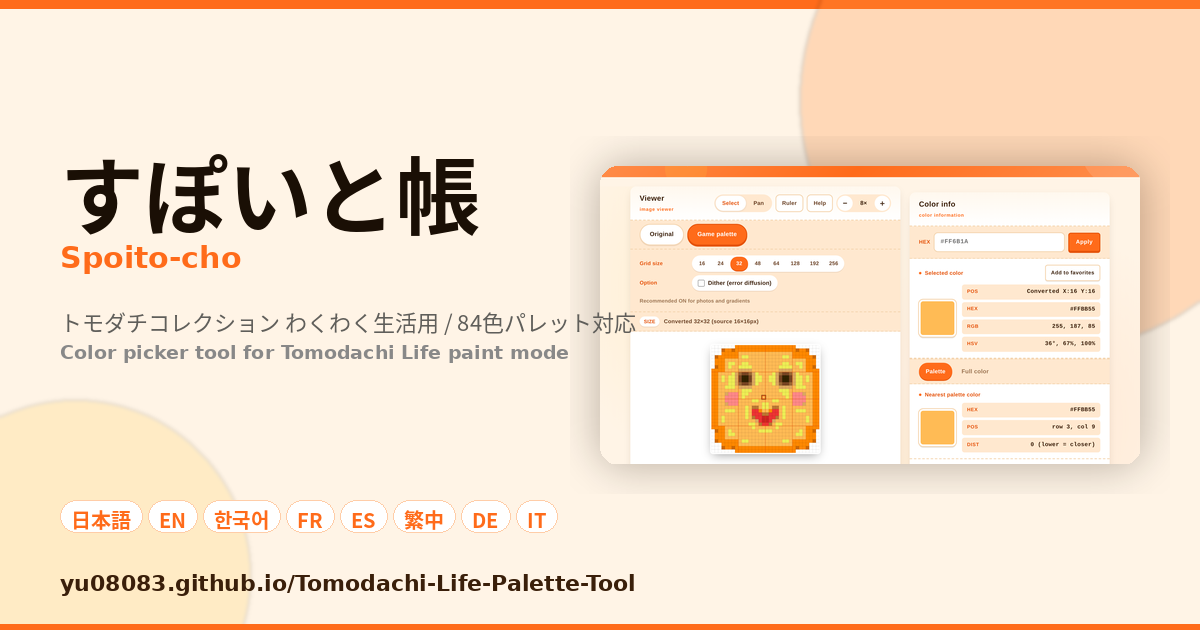
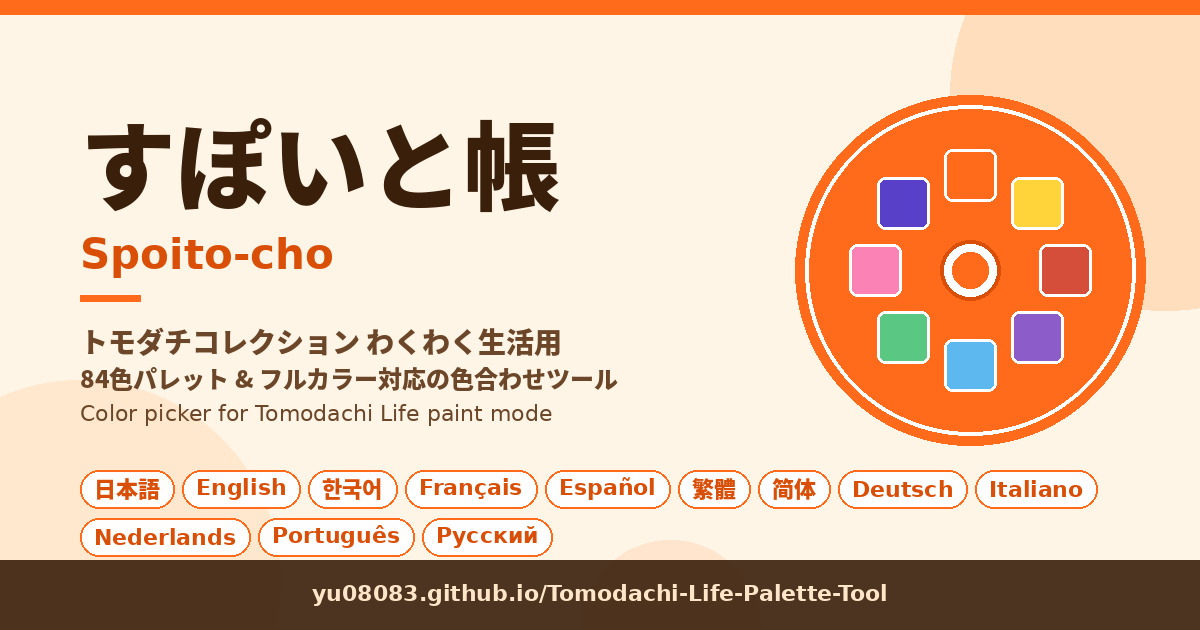
Add files via upload

diff --git a/js/features/share.js b/js/features/share.js
@@ -1,0 +1,94 @@
+
+const SHARE_BASE_URL = 'https://yu08083.github.io/Tomodachi-Life-Palette-Tool/';
+
+function _shareRandomUrl() {
+  const r = Math.random().toString(36).slice(2, 8);
+  return SHARE_BASE_URL + '?' + r;
+}
+
+function shareTweet() {
+  const url = _shareRandomUrl();
+  const text = t('share.tweetText');
+  const intent = 'https://twitter.com/intent/tweet'
+    + '?text=' + encodeURIComponent(text)
+    + '&url=' + encodeURIComponent(url);
+  window.open(intent, '_blank', 'noopener,noreferrer');
+  closeModal('modal-share');
+}
+
+async function shareCopyLink() {
+  const url = _shareRandomUrl();
+  let ok = false;
+  try {
+    if (navigator.clipboard && navigator.clipboard.writeText) {
+      await navigator.clipboard.writeText(url);
+      ok = true;
+    }
+  } catch (e) {}
+  if (!ok) {
+    try {
+      const ta = document.createElement('textarea');
+      ta.value = url;
+      ta.style.position = 'fixed';
+      ta.style.opacity = '0';
+      document.body.appendChild(ta);
+      ta.select();
+      ok = document.execCommand('copy');
+      document.body.removeChild(ta);
+    } catch (e) {}
+  }
+  if (ok) _shareToast(t('share.copied'));
+  closeModal('modal-share');
+}
+
+async function shareNative() {
+  const url = _shareRandomUrl();
+  const text = t('share.tweetText');
+  if (navigator.share) {
+    try {
+      await navigator.share({
+        title: 'Spoito-cho',
+        text,
+        url
+      });
+      closeModal('modal-share');
+    } catch (e) {}
+  }
+}
+
+function _shareToast(msg) {
+  let el = document.getElementById('share-toast');
+  if (!el) {
+    el = document.createElement('div');
+    el.id = 'share-toast';
+    el.className = 'share-toast';
+    document.body.appendChild(el);
+  }
+  el.textContent = msg;
+  el.classList.add('show');
+  clearTimeout(el._hideTimer);
+  el._hideTimer = setTimeout(() => {
+    el.classList.remove('show');
+  }, 2000);
+}
+
+function attachShareControls() {
+  const btn = document.getElementById('share-btn');
+  if (btn) btn.addEventListener('click', () => openModal('modal-share'));
+
+  const tweetBtn = document.getElementById('share-tweet-btn');
+  if (tweetBtn) tweetBtn.addEventListener('click', shareTweet);
+
+  const copyBtn = document.getElementById('share-copy-btn');
+  if (copyBtn) copyBtn.addEventListener('click', shareCopyLink);
+
+  const nativeBtn = document.getElementById('share-native-btn');
+  if (nativeBtn) {
+    if (navigator.share) {
+      nativeBtn.classList.remove('hidden');
+      nativeBtn.addEventListener('click', shareNative);
+    } else {
+      nativeBtn.classList.add('hidden');
+    }
+  }
+}

diff --git a/css/features/share.css b/css/features/share.css
@@ -1,0 +1,86 @@
+.modal-content-share {
+  max-width: 480px;
+}
+
+.share-actions {
+  display: flex;
+  flex-direction: column;
+  gap: var(--gap-sm);
+  margin-top: var(--gap-md);
+}
+
+.share-action-btn {
+  display: flex;
+  align-items: center;
+  gap: var(--gap-sm);
+  padding: 14px 18px;
+  font-family: var(--font-jp);
+  font-weight: 800;
+  font-size: 0.96rem;
+  background: var(--bg-soft);
+  color: var(--ink);
+  border: 2px solid transparent;
+  border-radius: var(--radius-md);
+  cursor: pointer;
+  transition: all 0.15s;
+  text-align: left;
+}
+.share-action-btn:hover {
+  transform: translateY(-1px);
+  border-color: var(--orange);
+  background: var(--card);
+  box-shadow: 0 4px 12px rgba(58, 31, 10, 0.12);
+}
+.share-action-btn:active { transform: translateY(0); }
+
+.share-icon {
+  flex-shrink: 0;
+  color: var(--ink-2);
+}
+.share-tweet { background: #000; color: #fff; }
+.share-tweet .share-icon { color: #fff; }
+.share-tweet:hover { background: #1a1a1a; border-color: #000; color: #fff; }
+.share-tweet:hover .share-icon { color: #fff; }
+
+.share-copy:hover .share-icon,
+.share-native:hover .share-icon { color: var(--orange-d); }
+
+.share-toast {
+  position: fixed;
+  bottom: 24px;
+  left: 50%;
+  transform: translateX(-50%) translateY(20px);
+  background: var(--ink);
+  color: #fff;
+  font-family: var(--font-jp);
+  font-weight: 800;
+  font-size: 0.92rem;
+  padding: 12px 24px;
+  border-radius: 999px;
+  box-shadow: 0 8px 24px rgba(0, 0, 0, 0.3);
+  opacity: 0;
+  pointer-events: none;
+  transition: all 0.25s;
+  z-index: 2000;
+}
+.share-toast.show {
+  opacity: 1;
+  transform: translateX(-50%) translateY(0);
+}
+
+.share-btn-tool {
+  background: var(--orange) !important;
+  color: #fff !important;
+  border-color: var(--orange) !important;
+}
+.share-btn-tool:hover {
+  background: var(--orange-d) !important;
+  color: #fff !important;
+}
+
+@media (max-width: 600px) {
+  .share-action-btn {
+    padding: 12px 14px;
+    font-size: 0.88rem;
+  }
+}

diff --git a/index.html b/index.html
@@ -108,6 +108,7 @@
   <link rel="stylesheet" href="./css/features/recipe.css">
   <link rel="stylesheet" href="./css/features/favorites.css">
   <link rel="stylesheet" href="./css/features/history.css">
+  <link rel="stylesheet" href="./css/features/share.css">
   <link rel="stylesheet" href="./css/features/notice.css">
   <link rel="stylesheet" href="./css/layout/mobile.css">
 </head>
@@ -219,6 +220,7 @@
               </div>
               <button id="ruler-btn" class="tool-btn" onclick="toggleRuler()" data-i18n="viewer.ruler">ルーラー</button>
               <button class="tool-btn" onclick="openModal('modal-guide')" data-i18n="viewer.help">使い方</button>
+              <button class="tool-btn share-btn-tool" id="share-btn" data-i18n="share.button" data-i18n-attr-aria-label="share.button" aria-label="共有">共有</button>
               <div class="zoom-controls">
                 <button id="zoom-out" class="zoom-btn" data-i18n-attr-aria-label="aria.zoomOut" aria-label="ズームアウト">−</button>
                 <span id="zoom-label">1×</span>
@@ -547,6 +549,35 @@
     </div>
   </div>
 
+  <div class="modal hidden" id="modal-share">
+    <div class="modal-content modal-content-share">
+      <button class="close-btn" onclick="closeModal('modal-share')" aria-label="閉じる">×</button>
+      <div class="modal-body">
+        <h2 data-i18n="share.menuTitle">すぽいと帳を共有</h2>
+        <div class="share-actions">
+          <button type="button" id="share-tweet-btn" class="share-action-btn share-tweet">
+            <svg class="share-icon" viewBox="0 0 24 24" width="22" height="22" aria-hidden="true">
+              <path fill="currentColor" d="M18.244 2.25h3.308l-7.227 8.26 8.502 11.24H16.17l-5.214-6.817L4.99 21.75H1.68l7.73-8.835L1.254 2.25H8.08l4.713 6.231zm-1.161 17.52h1.833L7.084 4.126H5.117z"/>
+            </svg>
+            <span data-i18n="share.tweet">Xに投稿</span>
+          </button>
+          <button type="button" id="share-copy-btn" class="share-action-btn share-copy">
+            <svg class="share-icon" viewBox="0 0 24 24" width="22" height="22" aria-hidden="true">
+              <path fill="none" stroke="currentColor" stroke-width="2" stroke-linecap="round" stroke-linejoin="round" d="M9 5H7a2 2 0 0 0-2 2v12a2 2 0 0 0 2 2h10a2 2 0 0 0 2-2v-2M9 5a2 2 0 0 1 2-2h2a2 2 0 0 1 2 2M9 5a2 2 0 0 0 2 2h2a2 2 0 0 0 2-2m0 0h2a2 2 0 0 1 2 2v3"/>
+            </svg>
+            <span data-i18n="share.copy">リンクをコピー</span>
+          </button>
+          <button type="button" id="share-native-btn" class="share-action-btn share-native hidden">
+            <svg class="share-icon" viewBox="0 0 24 24" width="22" height="22" aria-hidden="true">
+              <path fill="none" stroke="currentColor" stroke-width="2" stroke-linecap="round" stroke-linejoin="round" d="M4 12v8a2 2 0 0 0 2 2h12a2 2 0 0 0 2-2v-8M16 6l-4-4m0 0L8 6m4-4v13"/>
+            </svg>
+            <span data-i18n="share.native">他のアプリで共有</span>
+          </button>
+        </div>
+      </div>
+    </div>
+  </div>
+
   <img id="branding-logo" src="./assets/favicon.png" alt="" style="display:none" aria-hidden="true">
 
   <script src="./js/core/i18n.js"></script>
@@ -563,6 +594,7 @@
   <script src="./js/features/image-loader.js"></script>
   <script src="./js/features/favorites.js"></script>
   <script src="./js/features/history.js"></script>
+  <script src="./js/features/share.js"></script>
   <script src="./js/ui.js"></script>
   <script src="./js/main.js"></script>
 

diff --git a/js/main.js b/js/main.js
@@ -43,6 +43,7 @@ async function init() {
   buildPaletteGrid();
   attachPaletteNumberToggle();
   attachHistoryControls();
+  attachShareControls();
 
   window.addEventListener('i18nchange', refreshDynamicLabels);
 }